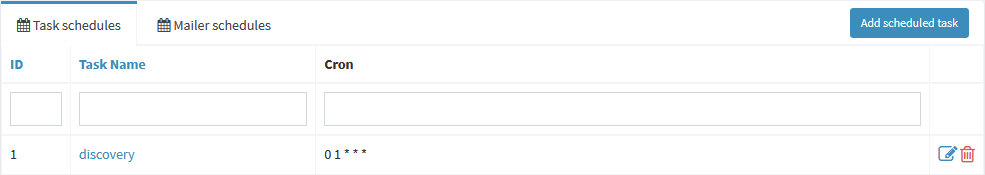
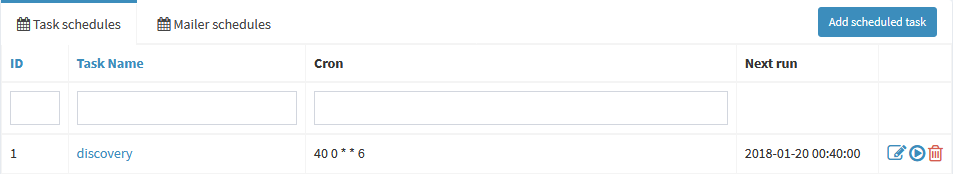
Documentation proofreading and contents update up to the actual state

diff --git a/docs/administrators-guide/nodes.md b/docs/administrators-guide/nodes.md
@@ -4,13 +4,20 @@ Available actions:
 
 * **Edit node**<br>It's possible to edit node only if it was added manually. Auto discovered nodes are not editable.
 * **Delete node**<br>As the name implies, you can delete node with all related data, including existing backups.
+* **Protect node**<br>If node is marked as `protected`, it won't be deleted by inactivity ([read more about purging inacitve nodes in paragraph **3. Nodes lifetime**](./system-configuration/#global-settings))
+* **Backup now**<br>Enqueues request to retrieve and save configuration right now.  
 
-On the left you see node general information retrieved during the discovery process via SNMP protocol. All information is readonly, except for `Prepend location` and represents prefix for location OID. This prefix can be set in [system configuration](system-configuration). In each node you can define it's own prefix which will override the default one. 
+## Node data
+
+On the left you see node general information retrieved during the discovery process via SNMP protocol.<br>All information is readonly, except for:
+
+ * `Prepend location`, that represents prefix for location OID. This prefix can be set in [system configuration](system-configuration). In each node you can define it's own prefix which will override the default one.
+ * `Credentials`, that can override authentication data for this particular node if default authentication path via devices/subnets does not satisfy your needs.
 
 
 The table below by default shows only one tab - actual configuration backup data. New tabs are added via plugins (e.g. 'geolocation'). Configuration backup can be viewed online, downloaded, copied to buffer (button `copy` becomes available when full configuration text is opened) or checked for changes. Changelog for node configuration is represented by `git log` diff functionality and looks the same. To track configuration changes, press <i class="fa fa-undo"></i> button and in the opened popup press <i class="fa fa-eye"></i> to view what has been changed. By default, only changes in last 31 days are shown (value can be set in [system configuration](system-configuration)).
 
-# Node information and subinterface management
+## Related information and subinterface management
 
 Tabs on the right side contain related logs, data about subinterfaces (you can change primary interface for the node if needed), assigned tasks and authentication data. 
 

diff --git a/docs/administrators-guide/user-management.md b/docs/administrators-guide/user-management.md
@@ -1,6 +1,6 @@
 # Access model
 
-cBackup user management is based on Yii2 RBAC model as implementation of [CSRC NIST RBAC](https://csrc.nist.gov/projects/role-based-access-control). Uou can read about Yii2 RBAC in [framework official documentation](http://www.yiiframework.com/doc-2.0/guide-security-authorization.html#rbac) or in [Yii2 cookbook](https://yii2-cookbook.readthedocs.io/security-rbac/#rbac). If you are used to Yii v1 RBAC model, make sure you update your knowledge, because Yii2 RBAC is different by obsoleting Role-Task-Permission chain and changing inheritance model.
+cBackup user management is based on Yii2 RBAC model as implementation of [CSRC NIST RBAC](https://csrc.nist.gov/projects/role-based-access-control). You can read about Yii2 RBAC in [framework official documentation](http://www.yiiframework.com/doc-2.0/guide-security-authorization.html#rbac) or in [Yii2 cookbook](https://yii2-cookbook.readthedocs.io/security-rbac/#rbac). If you are used to Yii v1 RBAC model, make sure you update your knowledge, because Yii2 RBAC is different by obsoleting Role-Task-Permission chain and changing inheritance model.
 
 !!! note
     At this moment RBAC model only limits access to API calls. Later it will be extended to handle access to different cBackup parts and functionality.

diff --git a/docs/administrators-guide/processes.md b/docs/administrators-guide/processes.md
@@ -8,7 +8,7 @@ Available under `Processes -> Global variables` menu, these variables can repres
 
 # Schedules
 
-On the scheduled task list you may see two tabs for two schedule types: Tasks and Mail. The second one can be used to send regular reports about system state. And the first one can be called 'internal crontab' with appearance you may find familiar. To make things easier to comprehend, there's also a column 'Next run' with information when next sheduled task will be ckicked in:
+On the scheduled task list you may see two tabs for two schedule types: Tasks and Mail. The second one can be used to send regular reports about system state. And the first one can be called 'internal crontab' with appearance you may find familiar. To make things easier to comprehend, there's also a column 'Next run' with information when next sheduled task will be kicked in:
 
 ![Schedules](../assets/schedules.png)
 

diff --git a/docs/administrators-guide/cds.md b/docs/administrators-guide/cds.md
@@ -10,7 +10,7 @@ When you open `System -> Content delivery` it will try to update content listing
 !!! warning
     If you have the similarly-named device or authentication template, you'll see the warning. Remove your device or template and fetch content again. 
     
-By pressing <i class="fa fa-caret-square-o-down"></i> you can look through the code to be fetched to your cBackup. All code is plaing PHP using Yii2 framework notation and specifications. See [developers guide](../contributors-guide/architecture.md) for more information.
+By pressing <i class="fa fa-caret-square-o-down"></i> you can look through the code to be fetched to your cBackup. All code is plain PHP, using Yii2 framework notation and specifications. See [developers guide](../contributors-guide/architecture.md) for more information.
 
 # Managing installed entities
 

diff --git a/docs/administrators-guide/discovery.md b/docs/administrators-guide/discovery.md
@@ -10,4 +10,4 @@ To work correctly, two entities must be defined:
 
 # How it works
 
-When both entries are configured, Java daemon at a set time will engage discovery task, processing defined networks in search of new or updated nodes. Any [excluded IP addresses](nodes/#exclusions) still will be discovered and saved to nodes list, but won't be processed by any other tasks, i.e. 'backup'. 
+When both entries are configured, Java daemon at a set time will engage discovery task, processing defined networks in search of new or updated nodes. Any [excluded IP addresses](nodes/#exclusions) won't be discovered and saved to nodes list. 
